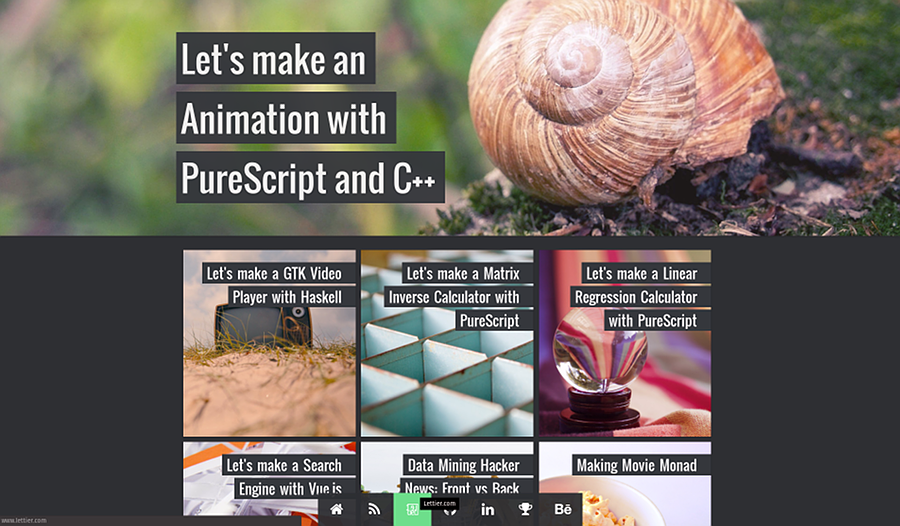
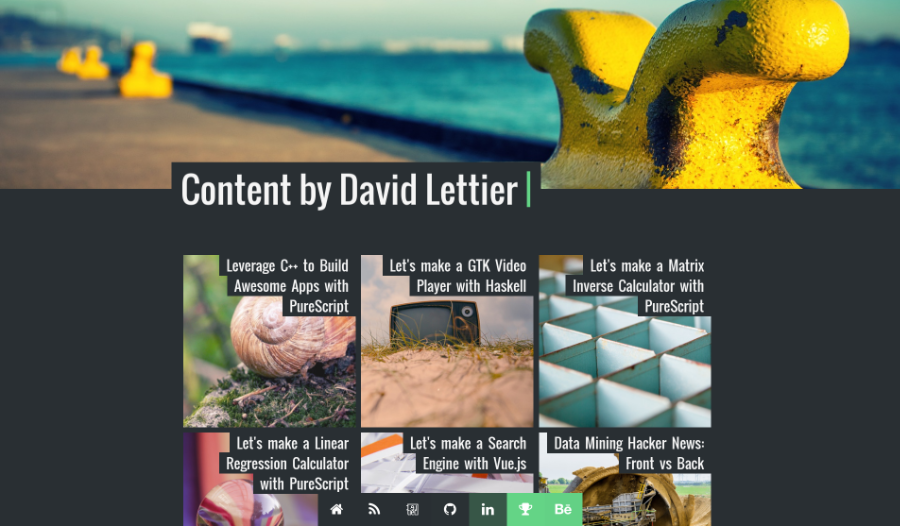
Updates readme

diff --git a/README.md b/README.md
@@ -1,8 +1,10 @@
 ![](screenshot.png)
 
-# Lettier Blog
+# Content by David Lettier
 
-Static website generated using the Haskell library Hakyll.
+Software project how-tos, machine learning concept explanations, and data-driven quests.
 
-_(C) 2016 David Lettier._  
-http://www.lettier.com/
+Uses the Haskell static site generator [Hakyll](https://github.com/jaspervdj/hakyll).
+
+_(C) 2017 David Lettier_  
+[lettier.com](https://www.lettier.com/)
